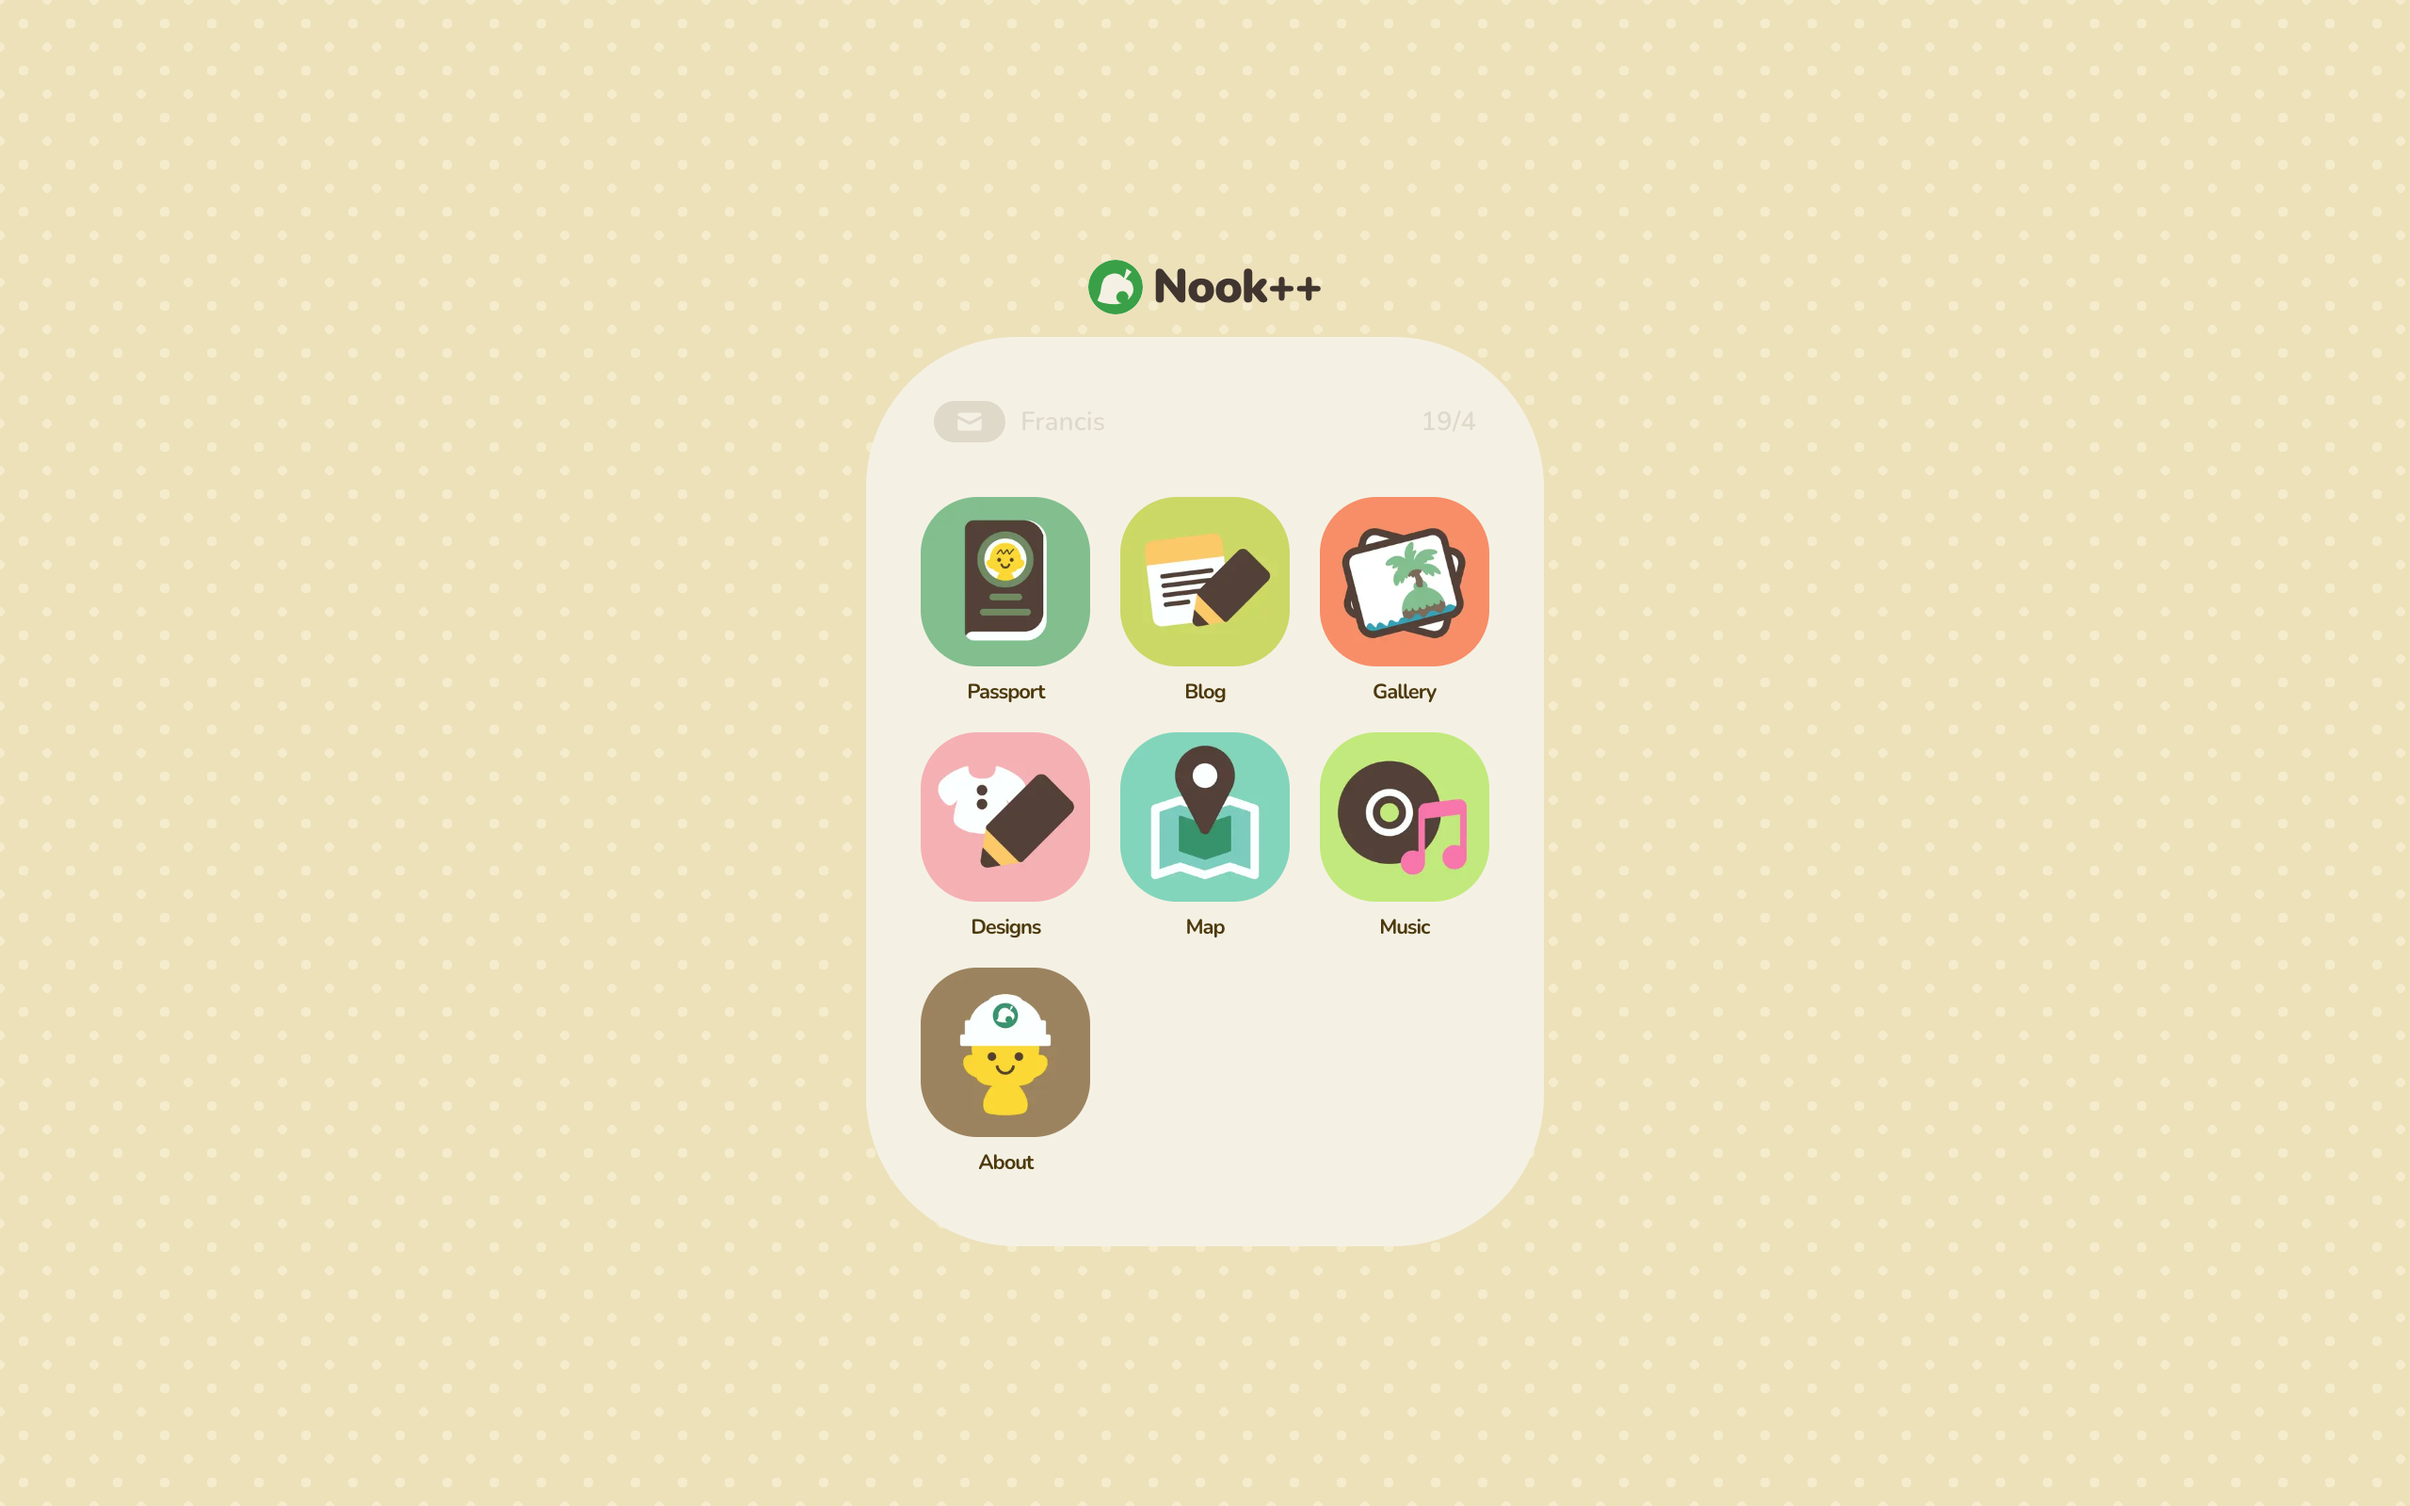
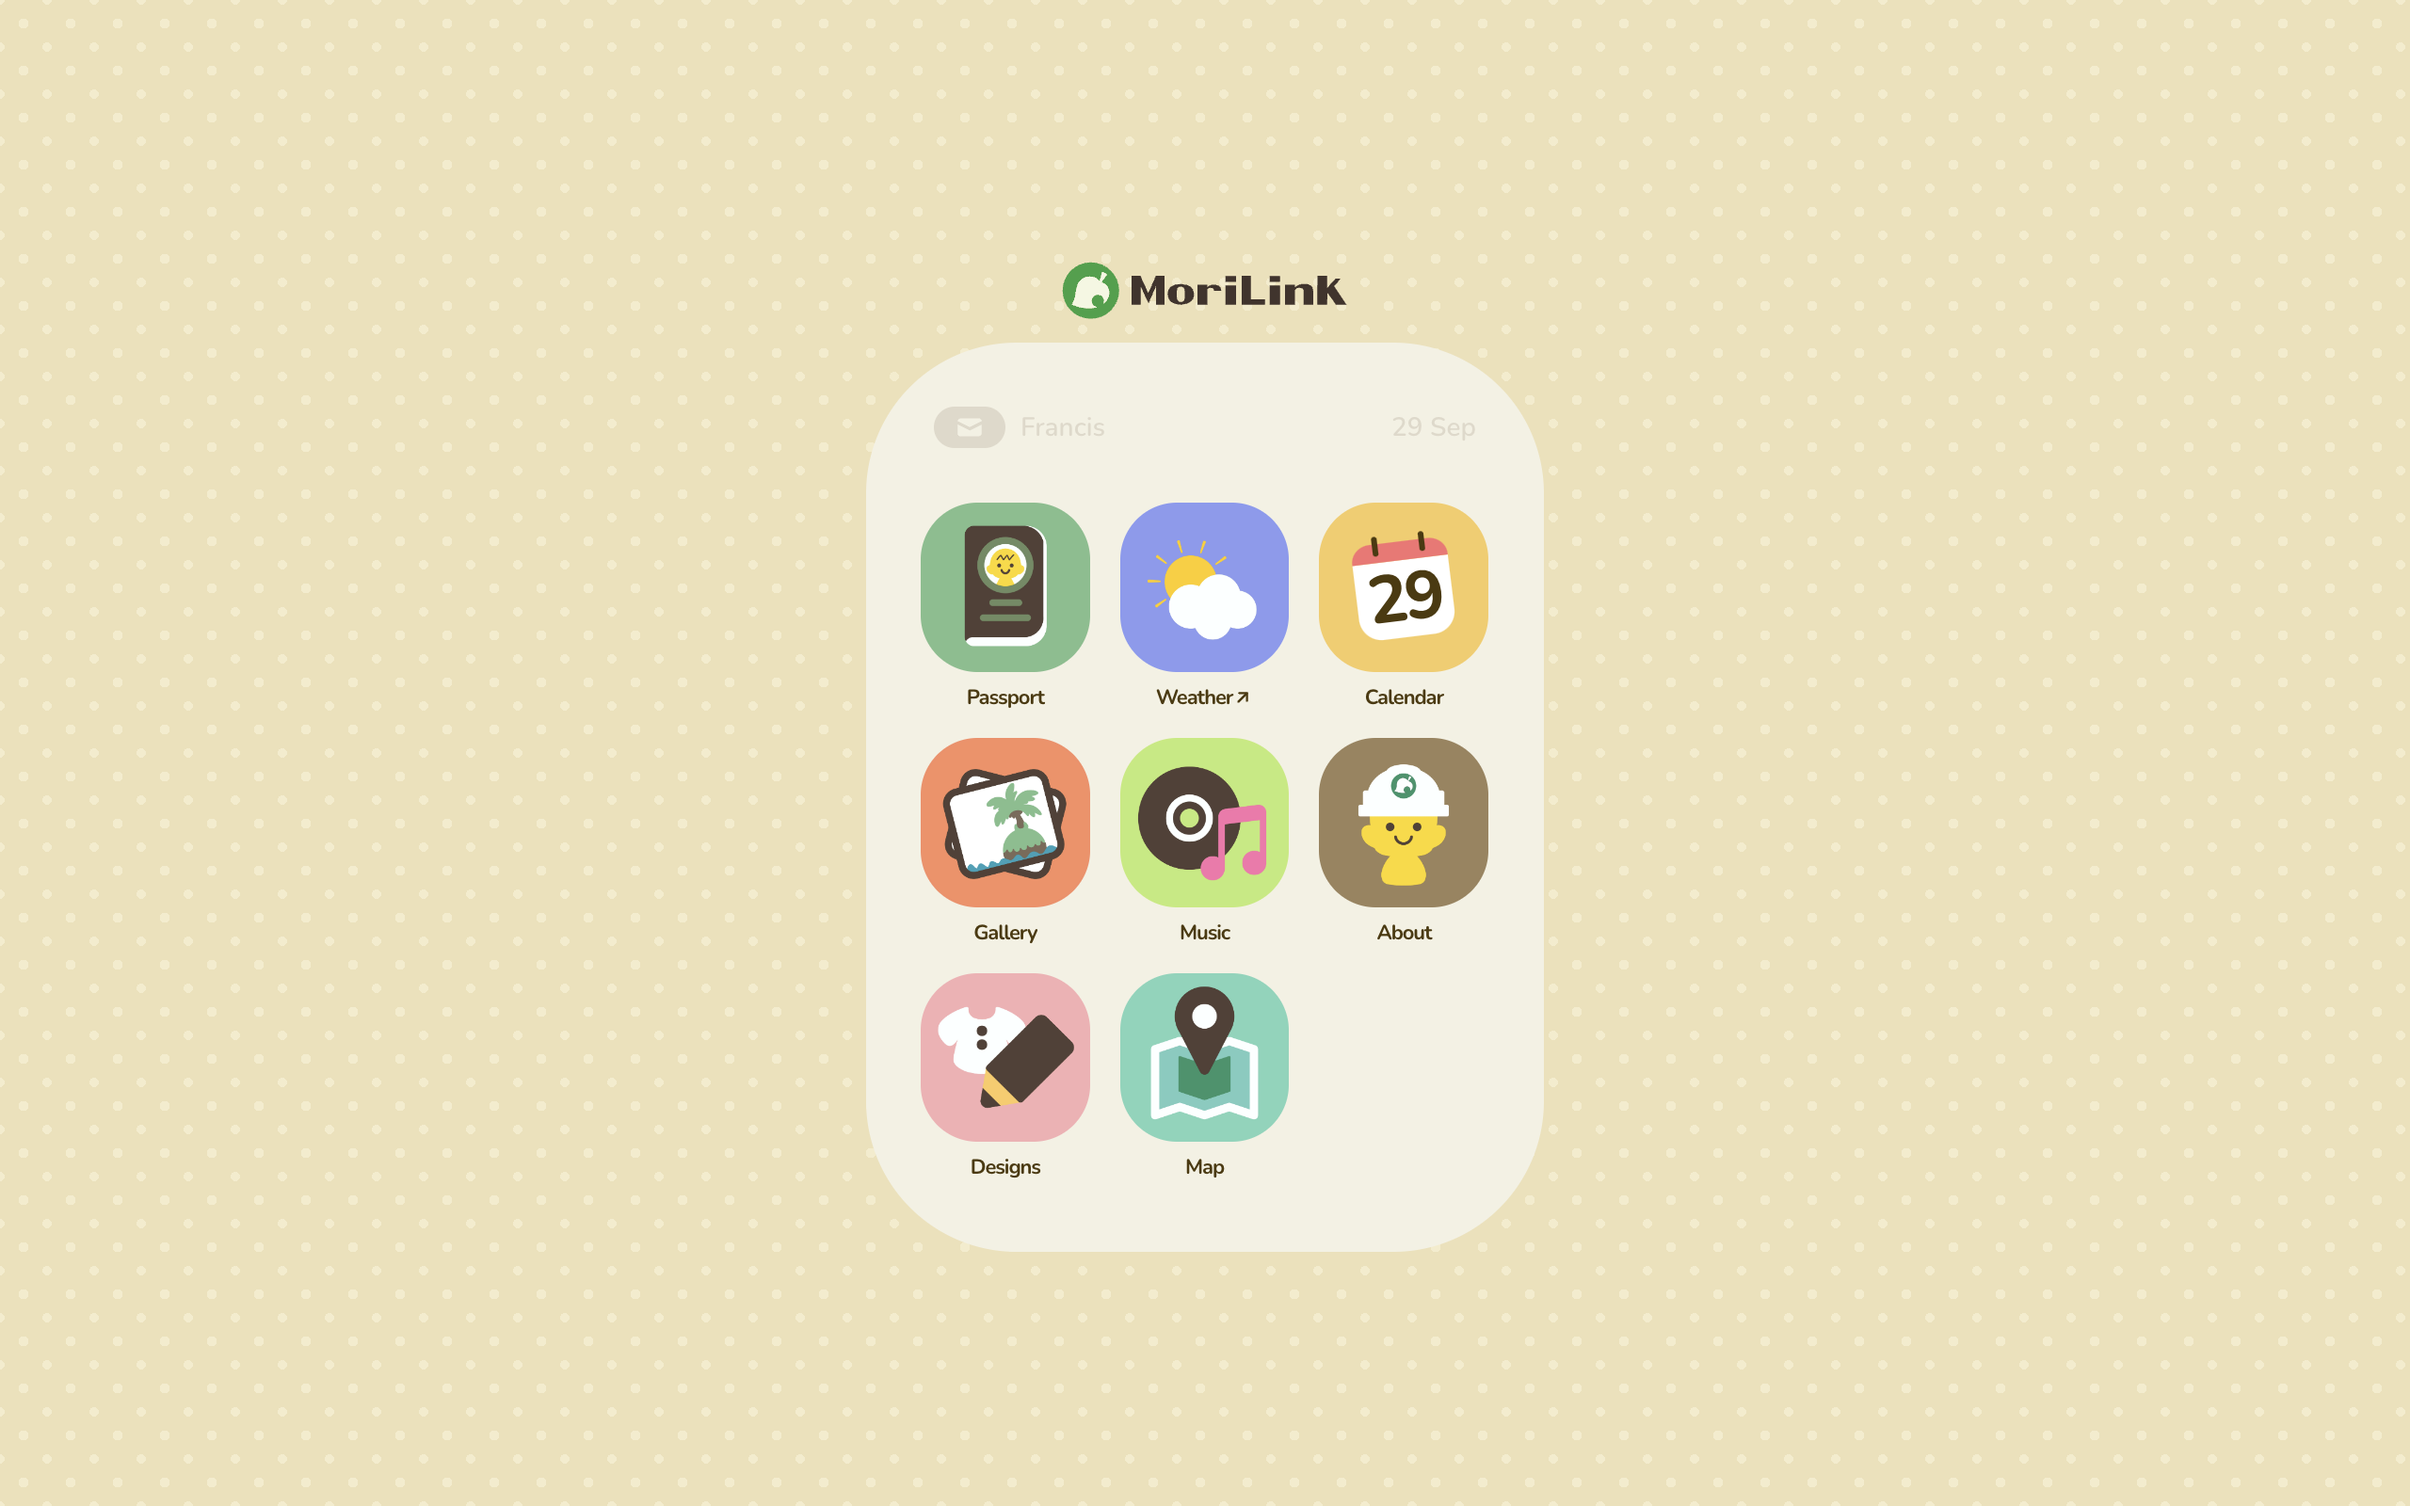
Update README.md along with new screenshot

diff --git a/README.md b/README.md
@@ -1,18 +1,20 @@
-# Nook++
+# MoriLink
 
-A hybrid of NookPhone and NookLink from Animal Crossing: New Horizons.
+[MoriLink](https://morilink.fywk.dev) is a web app inspired by **NookPhone** and **NookLink** from the _Animal Crossing: New Horizons_ game.
 
-![Screenshot of Nook++](/public/images/screenshot.png)
+![Screenshot of MoriLink](/public/images/screenshot.png)
 
 ## Introduction
 
-This application combined the functionalities found in the NookPhone smartphone in the game and the NookLink service of the Nintendo Switch Online app, along with some additional features.
+The application offers some functionalities found in the NookPhone smartphone in the game and the NookLink service of the Nintendo Switch Online app, along with some additional features.
 
 ## Getting Started
 
 ```bash
-git clone https://github.com/fywk/NookPlusPlus.git
-cd NookPlusPlus
+git clone https://github.com/fywk/MoriLink.git
+cd MoriLink
 pnpm install
 pnpm dev
 ```
+
+Then, create a `env.local` file for environment secrets listed in the `env.local.example` file.
